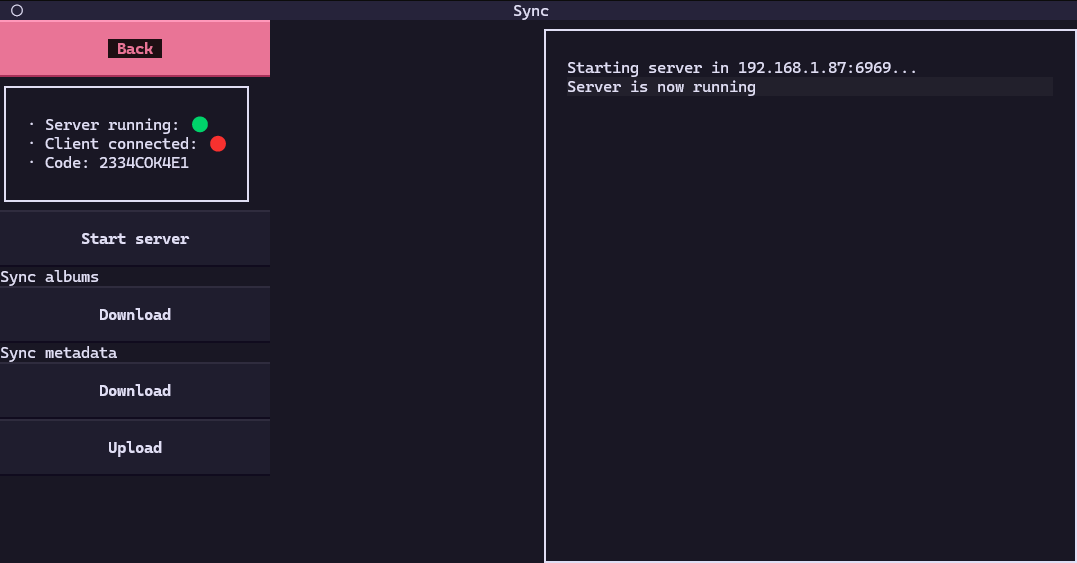
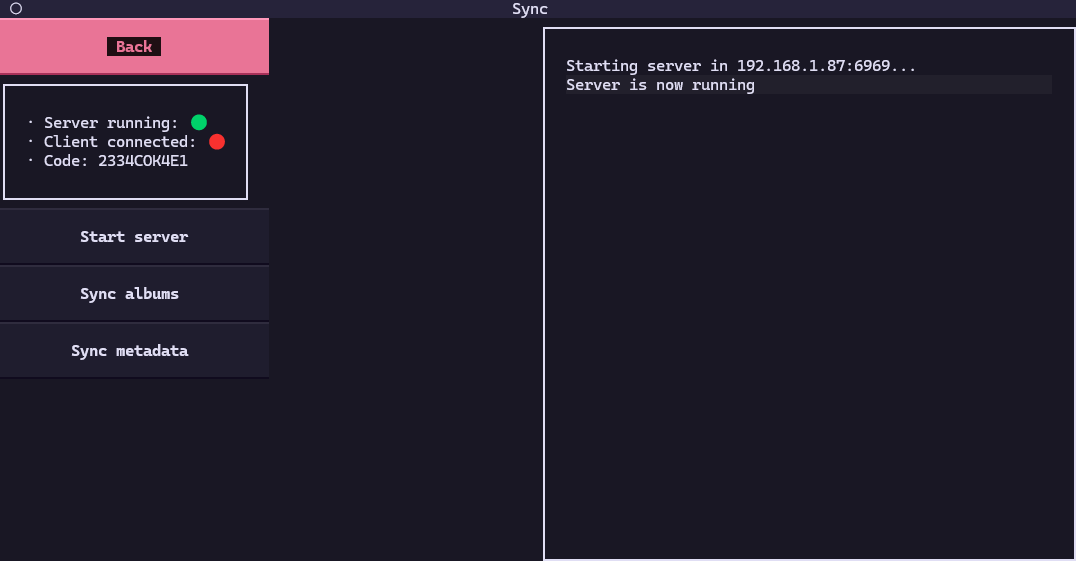
fixed description model bug & simplified sync layout
- fixed description model crashing when an image wasnt rgb (was indexed for example)
- simplified sync layout to use 2 buttons to sync albums & metadata

diff --git a/screens/sync/sync_screen.py b/screens/sync/sync_screen.py
@@ -1,3 +1,4 @@
+from util.dialogs import ConfirmDialog
 from screens.sync.sync_server import SyncServer
 from textual.screen import Screen
 from textual.widgets import Header, Button, Label
@@ -59,11 +60,8 @@ class SyncScreen(Screen):
                 with Vertical():
                     yield self.w_info
                     yield Button(classes='menu_button', id='start-server', label='Start server', tooltip='Starts the sync server if it\'s not running')
-                    yield Label('Sync albums')
-                    yield Button(classes='menu_button', id='download-albums', label='Download', tooltip='Updates the albums in this system with the ones in the client')
-                    yield Label('Sync metadata')
-                    yield Button(classes='menu_button', id='download-metadata', label='Download', tooltip='Updates the metadata in this system with the one in the client')
-                    yield Button(classes='menu_button', id='upload-metadata', label='Upload', tooltip='Updates the metadata in the client with the one in this system')
+                    yield Button(classes='menu_button', id='sync-albums', label='Sync albums', tooltip='Updates the albums in this system with the albums in the client')
+                    yield Button(classes='menu_button', id='sync-metadata', label='Sync metadata', tooltip='Updates the metadata in one system with the metadata in the other system')
             yield self.w_logs
 
     def update_info(self):
@@ -84,15 +82,12 @@ class SyncScreen(Screen):
             # Start server
             case 'start-server':
                 self.run_worker(SyncServer.current.start(), thread=True)
-            # Download albums
-            case 'download-albums':
+            # Sync albums
+            case 'sync-albums':
                 self.run_worker(SyncServer.current.download_albums, thread=True)
-            # Download metadata
-            case 'download-metadata':
-                self.run_worker(SyncServer.current.download_metadata, thread=True)
-            # Upload metadata
-            case 'upload-metadata':
-                self.run_worker(SyncServer.current.upload_metadata, thread=True)
+            # Sync metadata
+            case 'sync-metadata':
+                self.option_sync_metadata()
 
     def on_log_message(self, error: str):
         # Log
@@ -120,3 +115,16 @@ class SyncScreen(Screen):
 
     def log_message_async(self, message: str):
         self.app.call_from_thread(self.log_message, message)
+
+    # Options
+    def option_sync_metadata(self):
+        # Create result event
+        def on_result(download: bool):
+            # Check if should download or upload
+            if download:
+                self.run_worker(SyncServer.current.download_metadata, thread=True)
+            else:
+                self.run_worker(SyncServer.current.upload_metadata, thread=True)
+
+        # Create dialog
+        self.app.push_screen(ConfirmDialog(title='Who should sync its metadata?\n· Send: PC -> Client\n· Receive: Client -> PC', cancel='Send', confirm='Receive'), on_result)

diff --git a/screens/metadata/metadata_screen.py b/screens/metadata/metadata_screen.py
@@ -266,7 +266,7 @@ class MetadataScreen(Screen):
                     init_description_model()
 
                     # Load image
-                    item_image: ImageFile = Image.open(item.path)
+                    item_image: ImageFile = Image.open(item.path).convert("RGB")
 
                     # Fix caption
                     if fix_caption:
